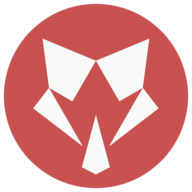
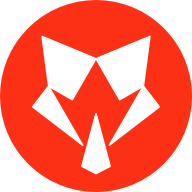
More content

diff --git a/wlplugin/_includes/head/custom.html b/wlplugin/_includes/head/custom.html
@@ -13,5 +13,10 @@
 <link rel="icon" type="image/png" sizes="32x32" href="/assets/favicon-32x32.png">
 <link rel="icon" type="image/png" sizes="16x16" href="/assets/favicon-16x16.png">
 <link rel="manifest" href="/assets/site.webmanifest">
+<link rel="mask-icon" href="/assets/safari-pinned-tab.svg" color="#fb3015">
+<link rel="shortcut icon" href="/assets/favicon.ico">
+<meta name="msapplication-TileColor" content="#ffc40d">
+<meta name="msapplication-config" content="/assets/browserconfig.xml">
+<meta name="theme-color" content="#ffffff">
 
 <!-- end custom head snippets -->

diff --git a/wlplugin/_docs/01-installation.md b/wlplugin/_docs/01-installation.md
@@ -32,3 +32,54 @@ Click on **Configure | Plugins**, search for "Wolfram Language" in the Marketpla
 If you’ve been using IntelliJ previously, then open the plugins window from **File | Settings | Plugins**.
 
 Install the Wolfram Language Plugin and restart IntelliJ IDEA to finish the installation.
+
+The Wolfram Language Plugin updates automatically to the latest version once it is available on the
+[Jetbrains Plugin Repository](https://plugins.jetbrains.com/plugin/7232).
+Newer version of the plugin might require an up-to-date IntelliJ IDE and, therefore, it is advised to use the latest
+version of IntelliJ IDEA.
+Once a new version of the plugin is available, the IDE shows a notification.
+
+## Upgrading from version 2.4.4 to version 2019
+
+Between version 2.4.4 and version 2019 of the Wolfram Language Plugin many of the core algorithms and data-structures
+were rewritten.
+As a consequence, the internal representation of caches and indexes have changed and you might experience odd behavior.
+Please clear and rebuild the caches by clicking **File | Invalidate Caches/Restart** which will restart IDEA and rebuild
+all structures.
+
+## Using EAP (beta) releases
+
+Testing new features or working on larger changes requires testing-phase to ensure the plugin works correctly and there
+are no regressions. To install beta-releases, you need to add the *beta repository* to your IntelliJ IDEA settings. 
+After that, you will get update-notifications each time a new beta version is available which is far more frequently 
+than updates for stable versions.
+
+To add the beta channel in IDEA 2018.3 or later, go to **File | Settings | Plugins**. In this setting page, click on 
+the ⚙ icon in the upper right corner:
+
+[![settings](/assets/images/pluginDialog.png)](/assets/images/pluginDialog.png)
+
+Choose **Manage Plugin Repository...** from the popup and in the appearing dialog, add the URL 
+
+```
+https://plugins.jetbrains.com/plugins/beta/list
+```
+
+as shown here:
+
+[![settings](/assets/images/pluginRepository.png)](/assets/images/pluginRepository.png)
+
+I a development version of the plugin is available, you can now install it by 
+After closing this window, you can install the beta-version for "Wolfram Language" in the *Browse 
+Repositories* window and you will find that the beta version is displayed and ready for install.
+
+## Downgrading
+
+Especially in beta releases, you might experience bugs which affect your work.
+However, you can always downgrade to a previous version that worked for you.
+Go to the [Wolfram Language Plugin](https://plugins.jetbrains.com/plugin/7232)
+repository page, and there you can download previous versions.
+Make sure you download the plugin version which is compatible with the IntelliJ version you are using.
+If you’d like to downgrade to a previous beta version you’ll need to click the `beta` button in the **Download 
+plugin** section.
+Once you’ve downloaded the version you want, install it using **Settings | Plugins | ⚙ | Install from disk...**

diff --git a/wlplugin/_docs/01-licensing.md b/wlplugin/_docs/01-licensing.md
@@ -1,0 +1,24 @@
+---
+title: "Licensing and Pricing"
+permalink: /docs/licensing/
+excerpt: "Information about licensing and prices of the Wolfram Language Plugin"
+toc: false
+---
+
+Starting with version 2019, the Wolfram Language Plugin will be part of the upcoming 
+[JetBrains Marketplace](https://plugins.jetbrains.com/marketplace) which gives developers the opportunity to
+sell their plugins.
+There will be different license types, and people developing open-source Wolfram projects will get the 
+Wolfram Language Plugin for free.
+Not all details are clear until the official launch of the JetBrains Marketplace, but the bottom line is that 
+developers who use the Wolfram Language Plugin for private or commercial projects will have to buy a license.
+As soon as all information are available, this section will be updated to explain in detail what types of licenses
+are available free of costs or with a subscription fee.
+
+## Why is the Wolfram Language Plugin no longer open-source and free for everyone?
+
+The development of the Wolfram Language Plugin started in the end of 2012 and it never was intended to be a one man
+job.
+Instead, the plan was to lay down the groundwork and hope that people would join the development to create a 
+community driven IDE for package development.
+Unfortunately, this plan did not work out
